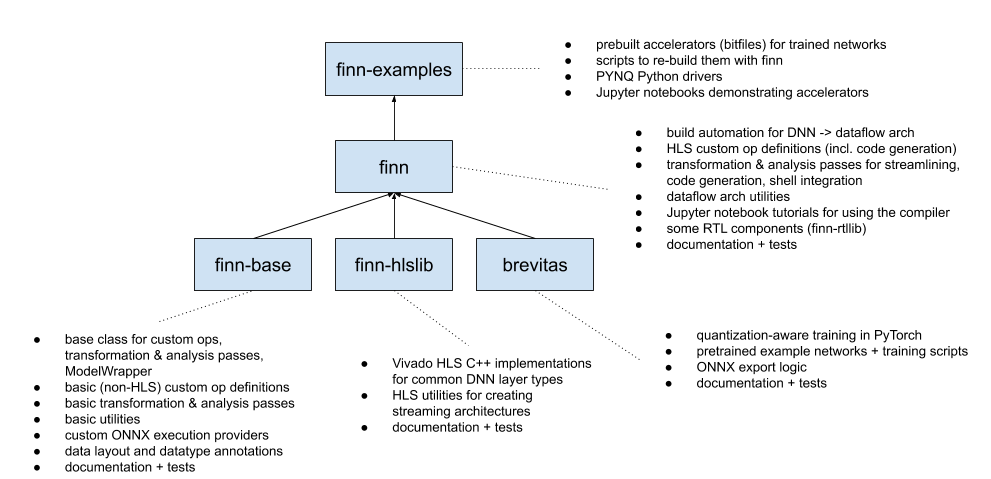
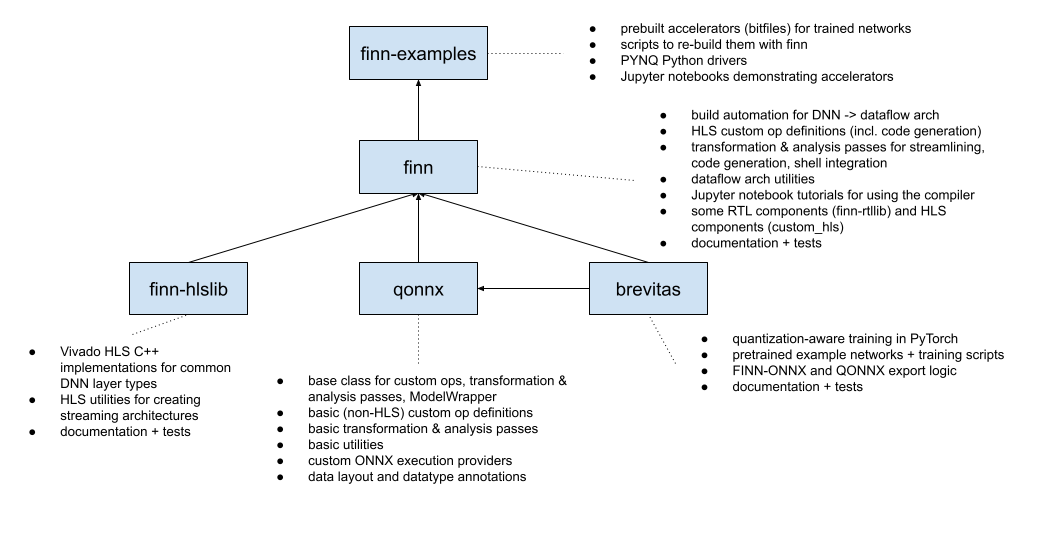
[docs] Update rtd documentation

diff --git a/docs/finn/internals.rst b/docs/finn/internals.rst
@@ -1,8 +1,8 @@
 .. _internals:
 
-*********
+**********
 Internals
-*********
+**********
 
 Intermediate Representation: QONNX and FINN-ONNX
 ================================================
@@ -14,16 +14,18 @@ FINN uses `ONNX <https://github.com/onnx/onnx>`_ as an intermediate representati
 Custom Quantization Annotations
 ===============================
 
-ONNX does not support datatypes smaller than 8-bit integers, whereas in FINN we are interested in smaller integers down to ternary and bipolar. To make this work, FINN uses the quantization_annotation field in ONNX to annotate tensors with their FINN DataType (:py:mod:`qonnx.core.datatype.DataType`) information. However, all tensors are expected to use single-precision floating point (float32) storage in FINN. This means we store even a 1-bit value as floating point for the purposes of representation. The FINN compiler flow is responsible for eventually producing a packed representation for the target hardware, where the 1-bit is actually stored as 1-bit.
+ONNX does not support datatypes smaller than 8-bit integers, whereas in FINN we are interested in smaller integers down to ternary and bipolar. To make this work, FINN-ONNX uses the quantization_annotation field in ONNX to annotate tensors with their FINN DataType (:py:mod:`qonnx.core.datatype.DataType`) information. However, all tensors are expected to use single-precision floating point (float32) storage in FINN. This means we store even a 1-bit value as floating point for the purposes of representation. The FINN compiler flow is responsible for eventually producing a packed representation for the target hardware, where the 1-bit is actually stored as 1-bit.
 
 Note that FINN uses floating point tensors as a carrier data type to represent integers. Floating point arithmetic can introduce rounding errors, e.g. (int_num * float_scale) / float_scale is not always equal to int_num.
 When using the custom ONNX execution flow, FINN will attempt to sanitize any rounding errors for integer tensors. See (:py:mod:`qonnx.util.basic.sanitize_quant_values`) for more information.
 This behavior can be disabled (not recommended!) by setting the environment variable SANITIZE_QUANT_TENSORS=0.
 
+.. note:: In QONNX the quantization is represented differently, for details please check the `QONNX repository <https://github.com/fastmachinelearning/qonnx>`_ .
+
 Custom Operations/Nodes
 =======================
 
-FINN uses many custom operations (op_type in ONNX NodeProto) that are not defined in the ONNX operator schema. These custom nodes are marked with domain="finn.*" in the protobuf to identify them as such. These nodes can represent specific operations that we need for low-bit networks, or operations that are specific to a particular hardware backend. To get more familiar with custom operations and how they are created, please take a look in the Jupyter notebook about CustomOps (see chapter :ref:`tutorials` for details) or directly in the module :py:mod:`finn.custom_op`.
+FINN uses many custom operations (op_type in ONNX NodeProto) that are not defined in the ONNX operator schema. These custom nodes are marked with domain="finn.*" or domain="qonnx.*" in the protobuf to identify them as such. These nodes can represent specific operations that we need for low-bit networks, or operations that are specific to a particular hardware backend. To get more familiar with custom operations and how they are created, please take a look in the Jupyter notebook about CustomOps (see chapter :ref:`tutorials` for details) or directly in the module :py:mod:`finn.custom_op`.
 
 .. note:: See the description of `this PR <https://github.com/Xilinx/finn-base/pull/6>`_ for more on how the operator wrapper library is organized.
 
@@ -118,7 +120,7 @@ As mentioned above there are FINN DataTypes additional to the container datatype
   # set tensor datatype of third tensor in model tensor list
   from qonnx.core.datatype import DataType
 
-  finn_dtype = DataType.BIPOLAR
+  finn_dtype = DataType["BIPOLAR"]
   model.set_tensor_datatype(tensor_list[2], finn_dtype)
 
 ModelWrapper contains two helper functions for tensor initializers, one to determine the current initializer and one to set the initializer of a tensor. If there is no initializer, None is returned.
@@ -147,15 +149,17 @@ A transformation passes changes (transforms) the given model, it gets the model 
 .. _mem_mode:
 
 MatrixVectorActivation *mem_mode*
-===========================
+==================================
 
-FINN supports two types of the so-called *mem_mode* attrıbute for the node MatrixVectorActivation. This mode controls how the weight values are accessed during the execution. That means the mode setting has direct influence on the resulting circuit. Currently two settings for the *mem_mode* are supported in FINN:
+FINN supports three types of the so-called *mem_mode* attrıbute for the node MatrixVectorActivation. This mode controls how the weight values are accessed during the execution. That means the mode setting has direct influence on the resulting circuit. Currently three settings for the *mem_mode* are supported in FINN:
 
 * "const"
 
 * "decoupled"
 
-The following picture shows the idea behind the two modes.
+* "external"
+
+The following picture shows the idea behind the "const" and "decoupled" mode.
 
 .. image:: img/mem_mode.png
    :scale: 55%

diff --git a/docs/finn/developers.rst b/docs/finn/developers.rst
@@ -84,7 +84,6 @@ The finn.dev image is built and launched as follows:
 
 4. Entrypoint script (docker/finn_entrypoint.sh) upon launching container performs the following:
 
-  * Do `pip install` on the dependency git repos at specified commits.
   * Source Vivado settings64.sh from specified path to make vivado and vivado_hls available.
   * Download PYNQ board files into the finn root directory, unless they already exist.
   * Source Vitits settings64.sh if Vitis is mounted.
@@ -92,7 +91,7 @@ The finn.dev image is built and launched as follows:
 5. Depending on the arguments to run-docker.sh a different application is launched. run-docker.sh notebook launches a Jupyter server for the tutorials, whereas run-docker.sh build_custom and run-docker.sh build_dataflow trigger a dataflow build (see documentation). Running without arguments yields an interactive shell. See run-docker.sh for other options.
 
 (Re-)launching builds outside of Docker
-======================================
+========================================
 
 It is possible to launch builds for FINN-generated HLS IP and stitched-IP folders outside of the Docker container.
 This may be necessary for visual inspection of the generated designs inside the Vivado GUI, if you run into licensing
@@ -122,16 +121,16 @@ The checks are configured in .pre-commit-config.yaml under the repo root.
 Testing
 =======
 
-Tests are vital to keep FINN running.  All the FINN tests can be found at https://github.com/Xilinx/finn/tree/master/tests.
+Tests are vital to keep FINN running.  All the FINN tests can be found at https://github.com/Xilinx/finn/tree/main/tests.
 These tests can be roughly grouped into three categories:
 
- * Unit tests: targeting unit functionality, e.g. a single transformation. Example: https://github.com/Xilinx/finn/blob/master/tests/transformation/streamline/test_sign_to_thres.py tests the expected behavior of the `ConvertSignToThres` transformation pass.
+ * Unit tests: targeting unit functionality, e.g. a single transformation. Example: https://github.com/Xilinx/finn/blob/main/tests/transformation/streamline/test_sign_to_thres.py tests the expected behavior of the `ConvertSignToThres` transformation pass.
 
- * Small-scale integration tests: targeting a group of related classes or functions that to test how they behave together. Example: https://github.com/Xilinx/finn/blob/master/tests/fpgadataflow/test_convert_to_hls_conv_layer.py sets up variants of ONNX Conv nodes that are first lowered and then converted to FINN HLS layers.
+ * Small-scale integration tests: targeting a group of related classes or functions that to test how they behave together. Example: https://github.com/Xilinx/finn/blob/main/tests/fpgadataflow/test_convert_to_hls_conv_layer.py sets up variants of ONNX Conv nodes that are first lowered and then converted to FINN HLS layers.
 
- * End-to-end tests: testing a typical 'end-to-end' compilation flow in FINN, where one end is a trained QNN and the other end is a hardware implementation. These tests can be quite large and are typically broken into several steps that depend on prior ones. Examples: https://github.com/Xilinx/finn/tree/master/tests/end2end
+ * End-to-end tests: testing a typical 'end-to-end' compilation flow in FINN, where one end is a trained QNN and the other end is a hardware implementation. These tests can be quite large and are typically broken into several steps that depend on prior ones. Examples: https://github.com/Xilinx/finn/tree/main/tests/end2end
 
-Additionally, finn-base, brevitas and finn-hlslib also include their own test suites.
+Additionally, qonnx, brevitas and finn-hlslib also include their own test suites.
 The full FINN compiler test suite
 (which will take several hours to run and require a PYNQ board) can be executed
 by:

diff --git a/docs/finn/source_code/qonnx.custom_op.general.rst b/docs/finn/source_code/qonnx.custom_op.general.rst
@@ -1,0 +1,86 @@
+************************
+Custom Op - General
+************************
+
+General Custom Ops
+===================
+
+qonnx.custom\_op.general.bipolar_quant
+--------------------------------------
+
+.. automodule:: qonnx.custom_op.general.bipolar_quant
+   :members:
+   :undoc-members:
+   :show-inheritance:
+
+qonnx.custom\_op.general.debugmarker
+------------------------------------
+
+.. automodule:: qonnx.custom_op.general.debugmarker
+   :members:
+   :undoc-members:
+   :show-inheritance:
+
+qonnx.custom\_op.general.genericpartition
+-----------------------------------------
+
+.. automodule:: qonnx.custom_op.general.genericpartition
+   :members:
+   :undoc-members:
+   :show-inheritance:
+
+qonnx.custom\_op.general.im2col
+-------------------------------
+
+.. automodule:: qonnx.custom_op.general.im2col
+   :members:
+   :undoc-members:
+   :show-inheritance:
+
+qonnx.custom\_op.general.maxpoolnhwc
+------------------------------------
+
+.. automodule:: qonnx.custom_op.general.maxpoolnhwc
+   :members:
+   :undoc-members:
+   :show-inheritance:
+
+qonnx.custom\_op.general.multithreshold
+---------------------------------------
+
+.. automodule:: qonnx.custom_op.general.multithreshold
+   :members:
+   :undoc-members:
+   :show-inheritance:
+
+qonnx.custom\_op.general.quant
+------------------------------
+
+.. automodule:: qonnx.custom_op.general.quant
+  :members:
+  :undoc-members:
+  :show-inheritance:
+
+qonnx.custom\_op.general.quantavgpool2d
+---------------------------------------
+
+.. automodule:: qonnx.custom_op.general.quantavgpool2d
+  :members:
+  :undoc-members:
+  :show-inheritance:
+
+qonnx.custom\_op.general.trunc
+------------------------------
+
+.. automodule:: qonnx.custom_op.general.trunc
+  :members:
+  :undoc-members:
+  :show-inheritance:
+
+qonnx.custom\_op.general.xnorpopcount
+-------------------------------------
+
+.. automodule:: qonnx.custom_op.general.xnorpopcount
+   :members:
+   :undoc-members:
+   :show-inheritance:

diff --git a/docs/finn/example_networks.rst b/docs/finn/example_networks.rst
@@ -13,22 +13,16 @@ compiler.
 End-to-end Integration tests
 ============================
 
-The FINN compiler uses `several pre-trained QNNs <https://github.com/Xilinx/brevitas/tree/master/brevitas_examples/bnn_pynq>`_
+The FINN compiler uses `several pre-trained QNNs <https://github.com/Xilinx/brevitas/tree/master/src/brevitas_examples/bnn_pynq>`_
 that serve as both examples and testcases.
 
 * TFC, SFC, LFC... are fully-connected networks trained on the MNIST dataset
 * CNV is a convolutional network trained on the CIFAR-10 dataset
 * w\_a\_ refers to the quantization used for the weights (w) and activations (a) in bits
 
-These networks are built end-to-end as part of the `FINN integration tests <https://github.com/Xilinx/finn/blob/master/tests/end2end/test_end2end_bnn_pynq.py>`_ ,
+These networks are built end-to-end as part of the `FINN integration tests <https://github.com/Xilinx/finn/blob/main/tests/end2end/test_end2end_bnn_pynq.py>`_ ,
 and the key performance indicators (FPGA resource, frames per second...) are
 automatically posted to the dashboard below.
-To implement a new network, you can use the `integration test code <https://github.com/Xilinx/finn/blob/dev/tests/end2end/test_end2end_bnn_pynq.py>`_
+To implement a new network, you can use the `integration test code <https://github.com/Xilinx/finn/blob/main/tests/end2end/test_end2end_bnn_pynq.py>`_
 as a starting point, as well as the `relevant Jupyter notebooks
-<https://github.com/Xilinx/finn/tree/master/notebooks/end2end_example/bnn-pynq>`_.
-
-.. image:: https://firebasestorage.googleapis.com/v0/b/drive-assets.google.com.a.appspot.com/o/Asset%20-%20Drive%20Icon512.png?alt=media
-  :width: 50px
-  :align: left
-
-`FINN end-to-end integration tests dashboard on Google Drive <https://bit.ly/finn-end2end-dashboard>`_
+<https://github.com/Xilinx/finn/tree/main/notebooks/end2end_example/bnn-pynq>`_.

diff --git a/docs/finn/faq.rst b/docs/finn/faq.rst
@@ -1,8 +1,8 @@
 .. _faq:
 
-***********************
+***************************
 Frequently Asked Questions
-***********************
+***************************
 
 Can't find the answer to your question here? Check `FINN GitHub Discussions <https://github.com/Xilinx/finn/discussions>`_.
 
@@ -100,7 +100,7 @@ Which data layout do FINN-generated accelerators use? Big-endian? Little-endian?
     If you need to do this manually, first examine how the `FINN PYNQ Python drivers <https://github.com/Xilinx/finn-examples/blob/main/finn_examples/driver.py#L379>`_ do this – notice how the input data is
     first reshaped to create the “folded input shape” that reflects the word size of the first layer based on how much it
     was parallelized, then data packing is applied to obtain a raw byte array (with some reversals going on) that can be
-    fed directly to the hardware. Another example of this is the `npy_to_rtlsim_input <https://github.com/Xilinx/finn-base/blob/dev/src/finn/util/data_packing.py#L289>`_ function, which converts npy arrays to lists of Python arbitrary-precision integers that we feed into pyverilator for rtl simulation:
+    fed directly to the hardware. Another example of this is the `npy_to_rtlsim_input <https://github.com/Xilinx/finn-base/blob/dev/src/finn/util/data_packing.py#L289>`_ function, which converts npy arrays to lists of Python arbitrary-precision integers that we feed into pyverilator for rtl simulation.
 
 Why does FIFO sizing take so long for my network? Is something wrong?
     The automatic FIFO sizing in FINN can take quite long. It unfortunately doesn’t really parallelize on multiple cores since

diff --git a/docs/finn/command_line.rst b/docs/finn/command_line.rst
@@ -41,7 +41,7 @@ To use it, first create a folder with the necessary configuration and model file
 2. Put your ONNX model to be converted under ``dataflow_build_dir/model.onnx``.
    The filename is important and must exactly be ``model.onnx``.
 3. Create a JSON file with the build configuration. It must be named ``dataflow_build_dir/dataflow_build_config.json``.
-   Read more about the build configuration options on :py:mod:``finn.builder.build_dataflow_config.DataflowBuildConfig``.
+   Read more about the build configuration options on :py:mod:`finn.builder.build_dataflow_config.DataflowBuildConfig`.
    You can find an example .json file under ``src/finn/qnn-data/build_dataflow/dataflow_build_config.json``
 4. (Optional) create a JSON file with the folding configuration. It must be named ``dataflow_build_dir/folding_config.json``.
    You can find an example .json file under ``src/finn/qnn-data/build_dataflow/folding_config.json``.
@@ -55,7 +55,7 @@ Now you can invoke the simple dataflow build as follows:
   ./run-docker.sh build_dataflow <path/to/dataflow_build_dir/>
 
 Depending on the chosen output products, the dataflow build will run for a while
-as it go through numerous steps:
+as it goes through numerous steps:
 
 .. code-block:: none
 

diff --git a/docs/finn/nw_prep.rst b/docs/finn/nw_prep.rst
@@ -47,4 +47,4 @@ Folding
 
 To adjust the folding, the values for PE and SIMD can be increased to achieve also an increase in the performance. The result can be verified using the same simulation flow as for the network with maximum folding (*cppsim* using C++), for details please have a look at chapter :ref:`verification`.
 
-The result is a network of HLS layers with desired folding and it can be passed to :ref:`vivado_synth`.
+The result is a network of HLS layers with desired folding and it can be passed to :ref:`hw_build`.
